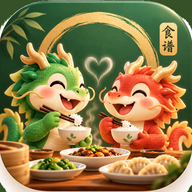
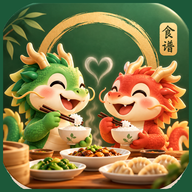
Add files via upload

Changed region(s): [[0.0, 0.0, 1.0, 1.0]]

diff --git a/index.html b/index.html
@@ -179,36 +179,40 @@ body{background:linear-gradient(135deg,#f7f7f5 0%,#f2f4ef 100%);color:var(--text
   .title{font-size:24px!important}
 }
 
-/* ===== Xiaomi 6 / Android keyboard stability ===== */
+/* ===== Xiaomi 6 / Android orientation stability ===== */
 html,body{width:100%;max-width:100%;overflow-x:hidden}
-@media (max-width:800px) and (orientation:portrait){
-  .app{width:100%;max-width:100%;overflow-x:hidden}
-  .sidebar{width:100%;max-width:100%;}
-  .search{font-size:16px!important;transform:none!important;zoom:1!important;}
-  .recipe-list,.recipe-item{width:100%;max-width:100%;}
-  .recipe-name,.recipe-meta{writing-mode:horizontal-tb!important;text-orientation:mixed!important;word-break:keep-all!important;overflow-wrap:normal!important;white-space:nowrap!important;}
-}
-/* 食材尽量一行显示；过长时允许表格区域横向查看，而不是把中文拆成竖排 */
-.ingredient-table{table-layout:auto;width:max-content;min-width:100%;}
-.ingredient-table th,.ingredient-table td{white-space:nowrap;}
-.ingredient-table td:nth-child(5),.ingredient-table th:nth-child(5){white-space:normal;}
-.section:has(.ingredient-table){overflow-x:auto;-webkit-overflow-scrolling:touch;}
-@media(max-width:800px){
-  .ingredient-table th,.ingredient-table td{padding:10px 11px;}
-  .ingredient-table td:nth-child(2){min-width:72px;}
-  .ingredient-table td:nth-child(5){min-width:120px;max-width:360px;}
-}
-/* ===== Xiaomi 6: keep physical portrait layout while the soft keyboard is open ===== */
-html.force-portrait .app{flex-direction:column!important;width:100%!important;min-width:0!important;overflow-x:hidden!important;}
-html.force-portrait .sidebar{width:100%!important;max-width:100%!important;height:68vh!important;min-height:0!important;border-right:0!important;border-bottom:1px solid var(--line)!important;overflow:hidden!important;}
+.recipe-item,.recipe-item *{writing-mode:horizontal-tb!important;text-orientation:mixed!important;direction:ltr}
+.recipe-name,.recipe-meta{writing-mode:horizontal-tb!important;text-orientation:mixed!important;word-break:keep-all!important;overflow-wrap:normal!important}
+
+/* 旧版 Android WebView 对 orientation media query 可能反向报告。真正方向由 JS 的 layoutOrientation 控制。
+   键盘弹出只触发 resize，不触发这里的方向切换，因此不会把竖屏搜索变成横屏。 */
+html.force-portrait .app{display:flex!important;flex-direction:column!important;width:100%!important;min-width:0!important;overflow-x:hidden!important;}
+html.force-portrait .sidebar{width:100%!important;max-width:100%!important;height:68vh!important;min-height:0!important;flex:none!important;border-right:0!important;border-bottom:1px solid var(--line)!important;overflow:hidden!important;}
 html.force-portrait .content{width:100%!important;min-width:0!important;min-height:32vh!important;height:auto!important;overflow:visible!important;}
 html.force-portrait .recipe-list{min-width:0!important;width:100%!important;max-width:100%!important;overflow-x:hidden!important;overflow-y:auto!important;-webkit-overflow-scrolling:touch;}
 html.force-portrait .search{display:block!important;width:calc(100% - 24px)!important;min-width:0!important;height:44px!important;font-size:16px!important;line-height:1.4!important;transform:none!important;zoom:1!important;}
 html.force-portrait .recipe-item{width:100%!important;max-width:100%!important;transform:none!important;}
-html.force-portrait .recipe-name,html.force-portrait .recipe-meta{writing-mode:horizontal-tb!important;text-orientation:mixed!important;word-break:keep-all!important;overflow-wrap:normal!important;white-space:nowrap!important;}
-/* 食材表默认每一项尽量保持一行；整张表可横向滚动，避免中文被挤成竖排。 */
+html.force-portrait .recipe-name,html.force-portrait .recipe-meta{white-space:nowrap!important;}
+
+html.force-landscape .app{display:flex!important;flex-direction:row!important;width:100vw!important;height:100vh!important;min-height:0!important;overflow:hidden!important;}
+html.force-landscape .sidebar{width:42vw!important;min-width:250px!important;max-width:460px!important;height:100vh!important;flex:none!important;border-right:1px solid var(--line)!important;border-bottom:0!important;overflow:hidden!important;}
+html.force-landscape .recipe-list{flex:1!important;min-height:0!important;width:100%!important;overflow-x:hidden!important;overflow-y:auto!important;-webkit-overflow-scrolling:touch!important;}
+html.force-landscape .content{flex:1!important;width:auto!important;min-width:0!important;min-height:0!important;height:100vh!important;overflow:auto!important;}
+html.force-landscape .topbar{height:50px!important;padding:0 10px!important;}
+html.force-landscape .page{padding:16px 14px 30px!important;}
+html.force-landscape .title{font-size:24px!important;}
+html.force-landscape .recipe-item{width:100%!important;max-width:100%!important;transform:none!important;}
+html.force-landscape .recipe-name,html.force-landscape .recipe-meta{white-space:nowrap!important;}
+
+/* 食材尽量保持一项一行；过长内容让整张表横向滚动，不拆中文字符。 */
+.ingredient-table{table-layout:auto!important;width:max-content!important;min-width:100%!important;}
 .ingredient-table th,.ingredient-table td{white-space:nowrap!important;word-break:keep-all!important;overflow-wrap:normal!important;}
 .section:has(.ingredient-table){overflow-x:auto!important;-webkit-overflow-scrolling:touch;}
+@media(max-width:800px){
+  .search{font-size:16px!important;line-height:1.4;min-height:44px;}
+  .ingredient-table th,.ingredient-table td{padding:10px 11px;}
+  .ingredient-table td:nth-child(2){min-width:72px;}
+}
 </style>
 
 <link rel="manifest" href="manifest.webmanifest">
@@ -233,23 +237,25 @@ let query=''; let category='全部'; let scale=1; let searchComposing=false;
 let searchFocused=false;
 let recipeListScrollTop=Number(localStorage.getItem(MENU_SCROLL_KEY)||0);
 let restoreRecipeListScroll=true;
-function updatePhysicalOrientation(){
-  // 不使用 screen.width/screen.height 判断方向：小米6在旋转或软键盘弹出时，
-  // 这些值可能仍保持物理竖屏尺寸，从而把真正的横屏误判成竖屏。
-  let portrait;
-  try{
-    portrait=window.matchMedia('(orientation: portrait)').matches;
-  }catch(e){
-    const angle=window.screen?.orientation?.angle;
-    if(typeof angle==='number') portrait=angle===0||angle===180;
-    else portrait=window.innerWidth < window.innerHeight;
-  }
-  document.documentElement.classList.toggle('force-portrait', !!portrait && window.innerWidth <= 800);
+let layoutOrientation = (window.innerWidth > window.innerHeight) ? 'landscape' : 'portrait';
+function applyLayoutOrientation(){
+  const root=document.documentElement;
+  root.classList.toggle('force-portrait', layoutOrientation==='portrait');
+  root.classList.toggle('force-landscape', layoutOrientation==='landscape');
 }
-updatePhysicalOrientation();
-window.addEventListener('orientationchange',()=>setTimeout(updatePhysicalOrientation,80));
-window.addEventListener('resize',()=>setTimeout(updatePhysicalOrientation,80));
-
+function updatePhysicalOrientation(){
+  // 仅由真实旋转事件调用。绝不在 resize 中判断方向，因为小米6键盘弹出会改变 viewport 高度。
+  const w=window.innerWidth||document.documentElement.clientWidth||0;
+  const h=window.innerHeight||document.documentElement.clientHeight||0;
+  if(w && h) layoutOrientation = w>h ? 'landscape' : 'portrait';
+  applyLayoutOrientation();
+}
+applyLayoutOrientation();
+window.addEventListener('orientationchange',()=>setTimeout(updatePhysicalOrientation,250));
+if(window.screen?.orientation?.addEventListener){
+  window.screen.orientation.addEventListener('change',()=>setTimeout(updatePhysicalOrientation,250));
+}
+// 不监听 window.resize：搜索框获得焦点/输入法弹出不会改变横竖屏布局。
 function persistSelected(){
   const r=recipes.find(x=>x.name===selected);
   selectedRecipeId=r?.id||'';
